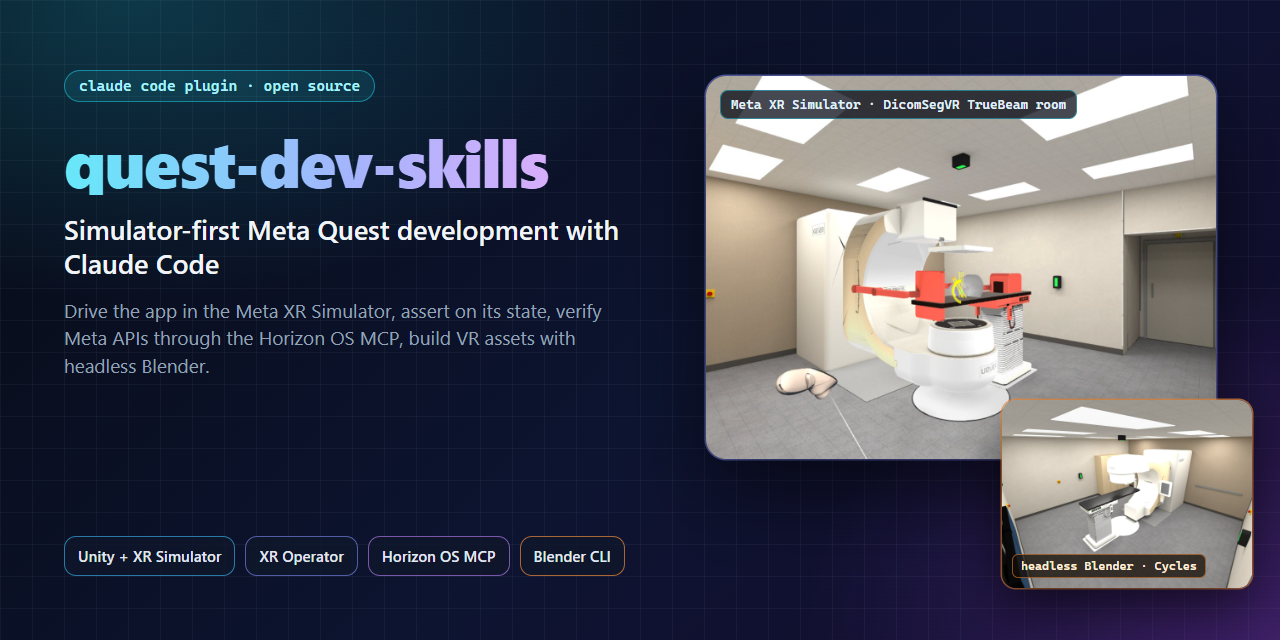
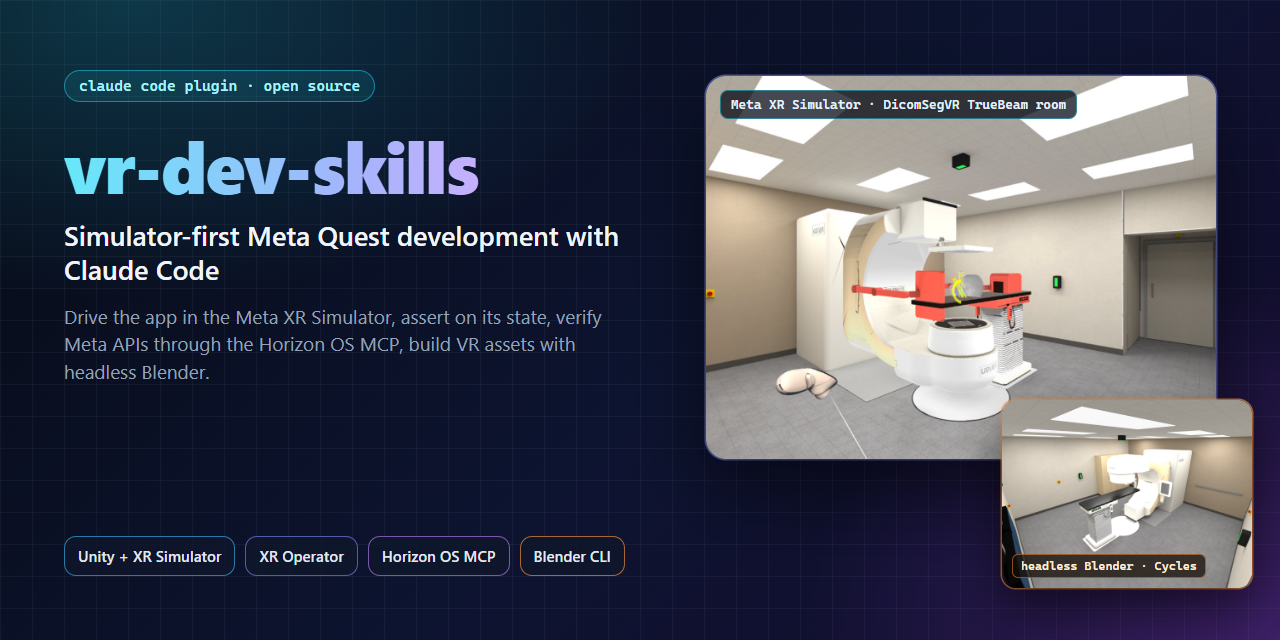
Rename to vr-dev-skills (marketplace vr-dev-skills, plugin vr-dev)
Install is now /plugin install vr-dev@vr-dev-skills. Skill names are unchanged; the hero
banner and the social preview card carry the new name.

Changed region(s): [[0.0312, 0.4688, 0.4688, 0.5938], [0.0625, 0.2188, 0.4375, 0.3125], [0.0312, 0.3438, 0.5, 0.4375]]

diff --git a/README.md b/README.md
@@ -1,5 +1,5 @@
 <p align="center">
-  <img src="docs/assets/hero.svg" alt="quest-dev-skills: simulator-first Meta Quest development with Claude Code" width="100%">
+  <img src="docs/assets/hero.svg" alt="vr-dev-skills: simulator-first Meta Quest development with Claude Code" width="100%">
 </p>
 
 <p align="center">
@@ -145,8 +145,8 @@ Each skill is a folder with a `SKILL.md` (what Claude reads first), `scripts/`, 
 In Claude Code:
 
 ```text
-/plugin marketplace add gomesgustavoo/quest-dev-skills
-/plugin install quest-dev@quest-dev-skills
+/plugin marketplace add gomesgustavoo/vr-dev-skills
+/plugin install vr-dev@vr-dev-skills
 ```
 
 Recommended alongside it: Meta's own plugin, which brings the Horizon OS MCP server and Meta's
@@ -161,8 +161,8 @@ Recommended alongside it: Meta's own plugin, which brings the Horizon OS MCP ser
 <summary><b>Prefer plain skill folders?</b> Copy them into <code>~/.claude/skills</code></summary>
 
 ```bash
-git clone https://github.com/gomesgustavoo/quest-dev-skills
-cd quest-dev-skills
+git clone https://github.com/gomesgustavoo/vr-dev-skills
+cd vr-dev-skills
 ./tools/install.sh                      # macOS / Linux / Git Bash
 powershell -File tools\install.ps1      # Windows PowerShell
 ```
@@ -241,7 +241,7 @@ Machine SSIM 0.94, ΔE 3.8, 19 / 19 validate checks, and the same FBX sha256 on 
 ## Repository layout
 
 ```text
-quest-dev-skills/
+vr-dev-skills/
 ├── .claude-plugin/          plugin.json + marketplace.json (this repo is its own marketplace)
 ├── skills/
 │   ├── unity-quest-sim-loop/    SKILL.md · scripts/ · assets/ (C# templates, scenarios) · references/ · evals/

diff --git a/templates/CLAUDE.quest.md b/templates/CLAUDE.quest.md
@@ -13,9 +13,9 @@ again.
 | **L2** | `unity_build.ps1 -Project . -Dev`, `quest_deploy.py deploy Build/<App>-dev.apk --project .` | ~4 min + a worn headset | real tracking, hands, Adreno GPU, performance |
 | **L3** | `unity_build.ps1 -Project .` + the smoke checklist in `docs/SMOKE.md` | ~4 min | the release APK (no Operator layer, no dev tools) |
 
-Skills: `quest-dev:unity-quest-sim-loop` (L0-L2), `quest-dev:quest-build-deploy` (builds,
-sideload, device readout), `quest-dev:horizon-os-mcp` (Meta docs, device, Perfetto),
-`quest-dev:blender-cli-vr-assets` (generated 3D assets).
+Skills: `vr-dev:unity-quest-sim-loop` (L0-L2), `vr-dev:quest-build-deploy` (builds,
+sideload, device readout), `vr-dev:horizon-os-mcp` (Meta docs, device, Perfetto),
+`vr-dev:blender-cli-vr-assets` (generated 3D assets).
 
 ## Project facts the agent needs
 
